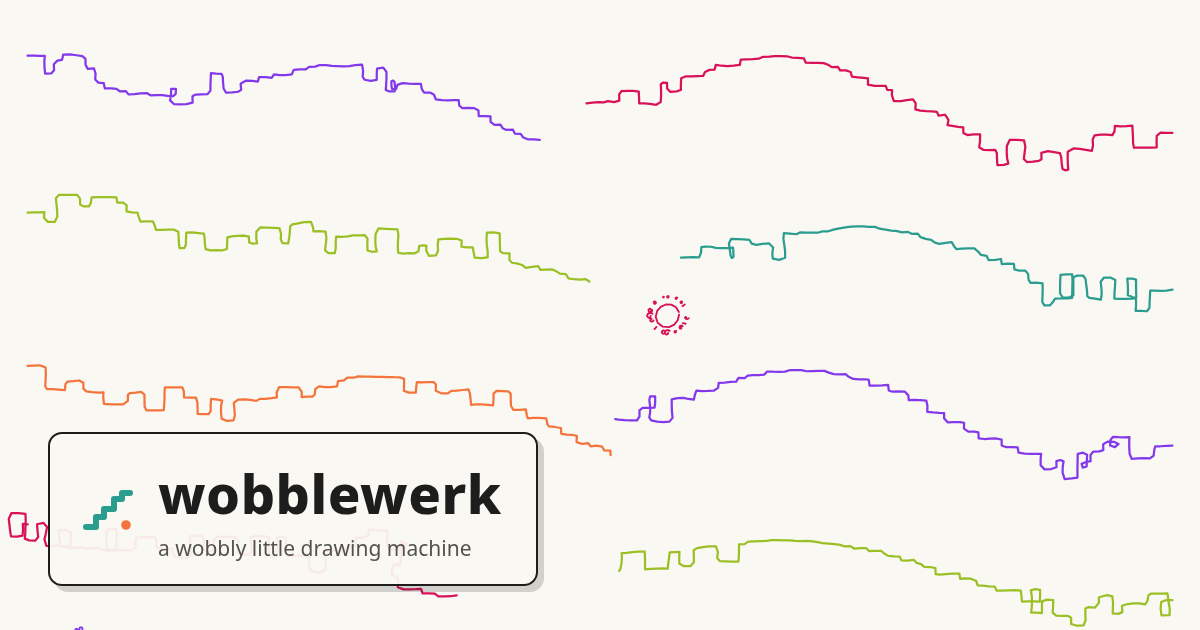
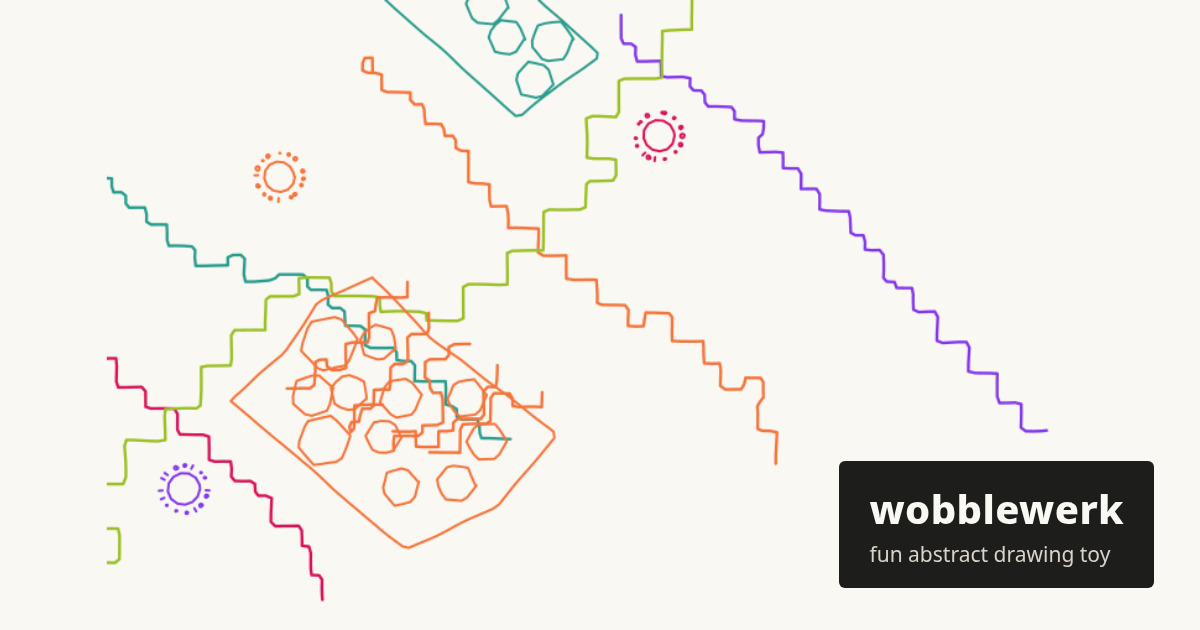
og: user-drawn artwork with flat wordmark plate ('fun abstract drawing toy'); rewritten meta descriptions

diff --git a/index.html b/index.html
@@ -4,13 +4,19 @@
     <meta charset="utf-8" />
     <meta name="viewport" content="width=device-width, initial-scale=1" />
     <title>wobblewerk</title>
-    <meta name="description" content="A wobbly little drawing machine — gestures in, notebook zigzags, hexagon packs, and sun doodles out. Re-roll the dice, sweep the hand dial, export SVG." />
+    <meta
+      name="description"
+      content="An inspiring drawing toy for fun abstract line drawings. Turn gestures into zigzags and stamps. Re-roll the dice, tweak before and after, export SVG for next steps in Illustrator/Inkscape."
+    />
     <link rel="icon" type="image/svg+xml" href="/favicon.svg" />
     <link rel="canonical" href="https://wobble.audiodude.xyz/" />
     <meta property="og:type" content="website" />
     <meta property="og:site_name" content="wobblewerk" />
     <meta property="og:title" content="wobblewerk" />
-    <meta property="og:description" content="A wobbly little drawing machine — gestures in, notebook zigzags, hexagon packs, and sun doodles out." />
+    <meta
+      property="og:description"
+      content="An inspiring drawing toy for fun abstract line drawings. Turn gestures into zigzags and stamps."
+    />
     <meta property="og:url" content="https://wobble.audiodude.xyz/" />
     <meta property="og:image" content="https://wobble.audiodude.xyz/og.png" />
     <meta property="og:image:width" content="1200" />
@@ -23,23 +29,39 @@
       <header id="topbar">
         <div id="logo" title="wobblewerk">
           <svg viewBox="0 0 32 32" width="22" height="22" aria-hidden="true">
-            <path d="M5 25 L10 25 L10 20 L14 20 L14 16 L19 16 L19 11 L23 11 L23 8 L27 8"
-                  fill="none" stroke="#2a9d8f" stroke-width="3" stroke-linecap="round" stroke-linejoin="round"/>
-            <circle cx="25" cy="24" r="2.4" fill="#f4743b"/>
+            <path
+              d="M5 25 L10 25 L10 20 L14 20 L14 16 L19 16 L19 11 L23 11 L23 8 L27 8"
+              fill="none"
+              stroke="#2a9d8f"
+              stroke-width="3"
+              stroke-linecap="round"
+              stroke-linejoin="round"
+            />
+            <circle cx="25" cy="24" r="2.4" fill="#f4743b" />
           </svg>
           <span>wobblewerk</span>
         </div>
         <div id="topbar-nav">
-          <button id="btn-undo" type="button" title="Undo (Ctrl+Z)">Undo</button>
-          <button id="btn-redo" type="button" title="Redo (Ctrl+Shift+Z)">Redo</button>
-          <button id="btn-fit" type="button" title="Reset Zoom (Ctrl+0)">Reset Zoom</button>
+          <button id="btn-undo" type="button" title="Undo (Ctrl+Z)">
+            Undo
+          </button>
+          <button id="btn-redo" type="button" title="Redo (Ctrl+Shift+Z)">
+            Redo
+          </button>
+          <button id="btn-fit" type="button" title="Reset Zoom (Ctrl+0)">
+            Reset Zoom
+          </button>
         </div>
         <div id="topbar-actions">
           <button id="btn-new" type="button" title="New">New</button>
           <button id="btn-open" type="button" title="Open">Open</button>
           <button id="btn-save" type="button" title="Save">Save</button>
-          <button id="btn-export-svg" type="button" title="Export SVG">Export SVG</button>
-          <button id="btn-export-png" type="button" title="Export PNG">Export PNG</button>
+          <button id="btn-export-svg" type="button" title="Export SVG">
+            Export SVG
+          </button>
+          <button id="btn-export-png" type="button" title="Export PNG">
+            Export PNG
+          </button>
           <input type="file" id="file-open" accept=".json" hidden />
         </div>
       </header>
@@ -52,12 +74,20 @@
           <div id="tools">
             <div id="tool-icons">
               <button type="button" data-tool="select" title="Select (V)">
-                <svg viewBox="0 0 24 24" width="18" height="18" fill="currentColor" aria-hidden="true">
+                <svg
+                  viewBox="0 0 24 24"
+                  width="18"
+                  height="18"
+                  fill="currentColor"
+                  aria-hidden="true"
+                >
                   <path d="M6 2v17l4.5-4.2 2.8 6.4 2.9-1.3-2.8-6.3 6.3-.6z" />
                 </svg>
               </button>
             </div>
-            <button type="button" data-tool="zigzag" data-active="true">Zigzag</button>
+            <button type="button" data-tool="zigzag" data-active="true">
+              Zigzag
+            </button>
             <button type="button" data-tool="hexpack">Hexpack</button>
             <button type="button" data-tool="sunstamp">Sunstamp</button>
           </div>
@@ -82,7 +112,9 @@
     <dialog id="png-dialog">
       <h2>Clip to image boundaries?</h2>
       <div id="png-dialog-options">
-        <button type="button" id="png-clip-yes">Yes &mdash; trim to artwork</button>
+        <button type="button" id="png-clip-yes">
+          Yes &mdash; trim to artwork
+        </button>
         <button type="button" id="png-clip-no">No &mdash; full sheet</button>
         <button type="button" id="png-clip-cancel">Cancel</button>
       </div>
@@ -91,9 +123,15 @@
     <dialog id="new-dialog">
       <h2>New sheet</h2>
       <div id="new-dialog-options">
-        <button type="button" data-sheet="square">Square<br /><small>1600 &times; 1600</small></button>
-        <button type="button" data-sheet="portrait">Portrait<br /><small>1600 &times; 2000</small></button>
-        <button type="button" data-sheet="landscape">Landscape<br /><small>2000 &times; 1600</small></button>
+        <button type="button" data-sheet="square">
+          Square<br /><small>1600 &times; 1600</small>
+        </button>
+        <button type="button" data-sheet="portrait">
+          Portrait<br /><small>1600 &times; 2000</small>
+        </button>
+        <button type="button" data-sheet="landscape">
+          Landscape<br /><small>2000 &times; 1600</small>
+        </button>
       </div>
     </dialog>
 
